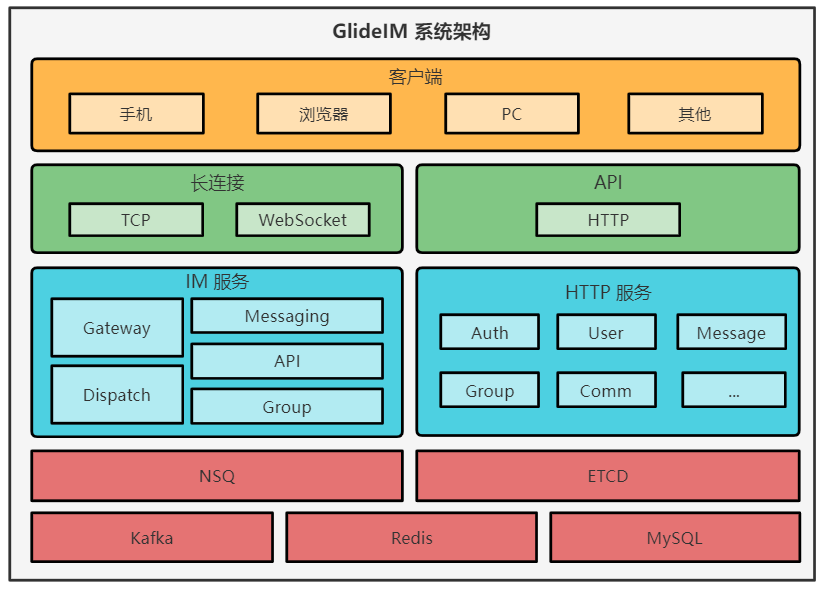
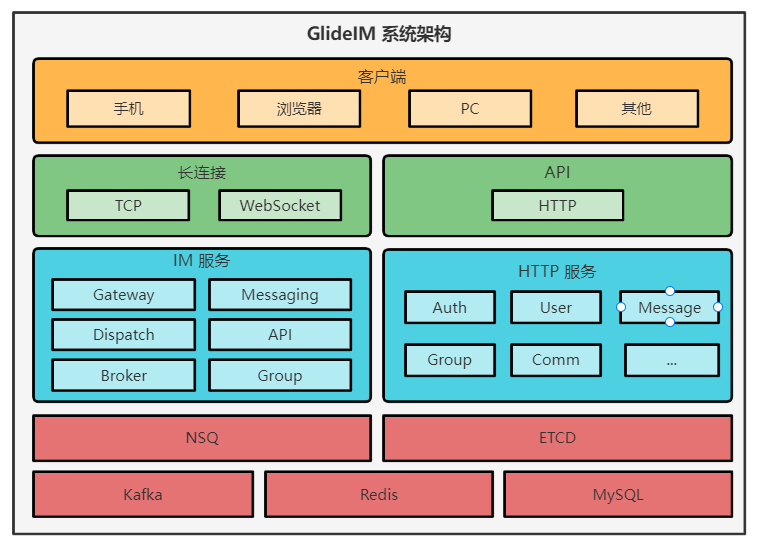
update services start up

Changed region(s): [[0.0, 0.0, 1.0, 1.0]]

diff --git a/pkg/rpc/server.go b/pkg/rpc/server.go
@@ -28,11 +28,13 @@ type BaseServer struct {
 	Options      *ServerOptions
 	etcdRegister *serverplugin.EtcdV3RegisterPlugin
 	reg          []func(srv *BaseServer) error
+	id           string
 }
 
 func NewBaseServer(options *ServerOptions) *BaseServer {
 	ret := &BaseServer{
 		Srv: server.NewServer(),
+		id:  fmt.Sprintf("%s@%s:%d", options.Name, options.Addr, options.Port),
 	}
 	ret.Options = options
 	if len(options.EtcdServers) != 0 {
@@ -44,6 +46,13 @@ func NewBaseServer(options *ServerOptions) *BaseServer {
 		}
 	}
 	return ret
+}
+
+func (s *BaseServer) GetServerID() string {
+	if len(s.id) == 0 {
+		s.id = fmt.Sprintf("%s@%s:%d", s.Options.Name, s.Options.Addr, s.Options.Port)
+	}
+	return s.id
 }
 
 func (s *BaseServer) Register(name string, sv interface{}) {

diff --git a/cmd/run/api_rpc/main.go b/cmd/run/api_rpc/main.go
@@ -5,22 +5,22 @@ import (
 	"go_im/pkg/db"
 	"go_im/service"
 	"go_im/service/api_service"
-	"go_im/service/gateway"
-	"go_im/service/group_messaging"
+	"go_im/service/broker"
+	"go_im/service/dispatch"
 )
 
 func main() {
 
-	config, err := service.GetConfig()
-	must(err)
-
 	db.Init()
 	dao.Init()
 
-	err = gateway.InitMessageProducer(config.Nsq.Nsqd)
+	config, err := service.GetConfig()
 	must(err)
 
-	err = group_messaging.SetupClient(config)
+	err = dispatch.SetupClient(config)
+	must(err)
+
+	err = broker.SetupClient(config)
 	must(err)
 
 	err = api_service.RunServer(config)

diff --git a/service/gateway/server.go b/service/gateway/server.go
@@ -8,8 +8,6 @@ import (
 	"go_im/protobuf/gen/pb_rpc"
 )
 
-const ServiceName = "client"
-
 type Server struct {
 	*rpc.BaseServer
 }
@@ -31,7 +29,7 @@ func (s *Server) ClientLogout(ctx context.Context, request *pb_rpc.GatewayLogout
 }
 
 func (s *Server) EnqueueMessage(ctx context.Context, request *pb_rpc.EnqueueMessageRequest, reply *pb_rpc.Response) error {
-	m := &message.Message{CommMessage: request.Message}
+	m := message.FromProtobuf(request.GetMessage())
 	err := client.EnqueueMessageToDevice(request.GetUid(), 0, m)
 	return err
 }

diff --git a/cmd/run/messaging/main.go b/cmd/run/messaging/main.go
@@ -4,8 +4,8 @@ import (
 	"go_im/im/dao"
 	"go_im/pkg/db"
 	"go_im/service"
+	"go_im/service/api_service"
 	"go_im/service/dispatch"
-	"go_im/service/gateway"
 	"go_im/service/group_messaging"
 	"go_im/service/messaging_service"
 )
@@ -19,12 +19,12 @@ func main() {
 		panic(err)
 	}
 
-	err = dispatch.SetupClient(config)
+	err = api_service.SetupClient(config)
 	if err != nil {
 		panic(err)
 	}
 
-	err = gateway.InitMessageProducer(config.Nsq.Nsqd)
+	err = dispatch.SetupClient(config)
 	if err != nil {
 		panic(err)
 	}

diff --git a/service/group_messaging/server.go b/service/group_messaging/server.go
@@ -7,7 +7,6 @@ import (
 	"go_im/pkg/logger"
 	"go_im/pkg/rpc"
 	"go_im/protobuf/gen/pb_rpc"
-	"go_im/service/route"
 )
 
 type Server struct {
@@ -40,12 +39,6 @@ func (s *Server) UpdateGroup(ctx context.Context, param *pb_rpc.UpdateGroupParam
 	}
 	err := group.UpdateGroup(gid, update)
 	if err != nil {
-		return err
-	}
-
-	// when group service load or create group, publish group route info
-	if update.Flag == group.FlagGroupCreate {
-		err = route.PublishGroupRoute(gid)
 		return err
 	}
 	return nil

diff --git a/service/group_messaging/client_test.go b/service/group_messaging/client_test.go
@@ -13,11 +13,13 @@ func TestNewClient(t *testing.T) {
 	if err != nil {
 		panic(err)
 	}
-	etcd := config.Etcd.Servers
+	//etcd := config.Etcd.Servers
 
 	client, err := NewClient(&rpc.ClientOptions{
-		Name:        config.GroupMessaging.Client.Name,
-		EtcdServers: etcd,
+		Name: config.GroupMessaging.Client.Name,
+		Addr: config.GroupMessaging.Server.Addr,
+		Port: config.GroupMessaging.Server.Port,
+		//EtcdServers: etcd,
 	})
 	if err != nil {
 		t.Error(err)

diff --git a/cmd/run/getaway/main.go b/cmd/run/getaway/main.go
@@ -2,9 +2,8 @@ package main
 
 import (
 	"go_im/service"
-	"go_im/service/api_service"
 	"go_im/service/gateway"
-	"go_im/service/group_messaging"
+	"go_im/service/messaging_service"
 )
 
 func main() {
@@ -14,12 +13,7 @@ func main() {
 		panic(err)
 	}
 
-	err = group_messaging.SetupClient(config)
-	if err != nil {
-		panic(err)
-	}
-
-	err = api_service.SetupClient(config)
+	err = messaging_service.SetupClient(config)
 	if err != nil {
 		panic(err)
 	}

diff --git a/service/messaging_service/server.go b/service/messaging_service/server.go
@@ -21,7 +21,7 @@ func NewServer(options *rpc.ServerOptions) *Server {
 }
 
 func (s *Server) HandleMessage(ctx context.Context, request *pb_rpc.MessagingHandleRequest, replay *pb_rpc.Response) error {
-	m := &message.Message{CommMessage: request.GetMessage()}
+	m := message.FromProtobuf(request.Message)
 
 	return messaging.HandleMessage(request.GetId(), request.GetDevice(), m)
 }

diff --git a/service/messaging_service/client.go b/service/messaging_service/client.go
@@ -28,5 +28,5 @@ func (c *Client) HandleMessage(from int64, device int64, message *message.Messag
 		Message: message.GetProtobuf(),
 	}
 
-	return c.Call(context.Background(), "UpdateMember", &request, &pb_rpc.Response{})
+	return c.Call(context.Background(), "HandleMessage", &request, &pb_rpc.Response{})
 }

diff --git a/pkg/rpc/client.go b/pkg/rpc/client.go
@@ -34,7 +34,6 @@ type BaseClient struct {
 func NewBaseClient(options *ClientOptions) (*BaseClient, error) {
 	ret := &BaseClient{
 		options: options,
-		id:      fmt.Sprintf("%s@%s:%d", "", "", 1),
 	}
 
 	var discovery client.ServiceDiscovery

diff --git a/service/messaging_service/run.go b/service/messaging_service/run.go
@@ -6,7 +6,7 @@ import (
 	"go_im/service"
 )
 
-func SetupClient(configs service.Configs) error {
+func SetupClient(configs *service.Configs) error {
 
 	options := configs.Messaging.Client.ToClientOptions()
 	cli, err := NewClient(options)

diff --git a/service/config.go b/service/config.go
@@ -47,7 +47,7 @@ type ClientConfig struct {
 	EtcdServers []string
 	// optional when use service discovery
 	Addr string
-	Port int32
+	Port int
 }
 
 func (c *ClientConfig) ToClientOptions() *rpc.ClientOptions {
